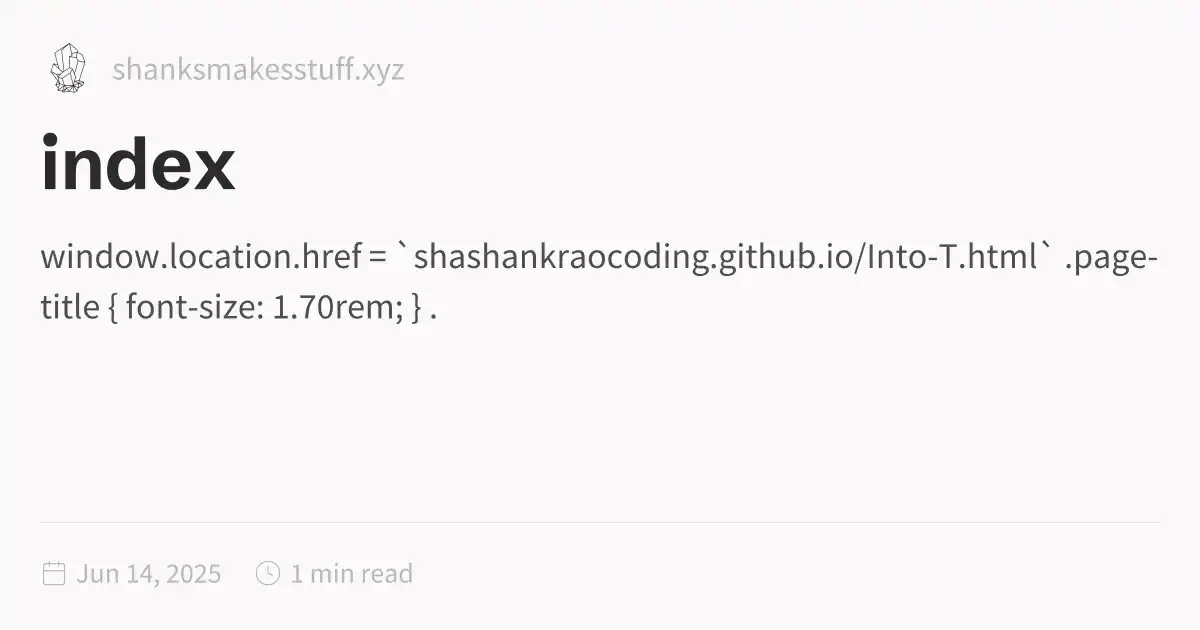
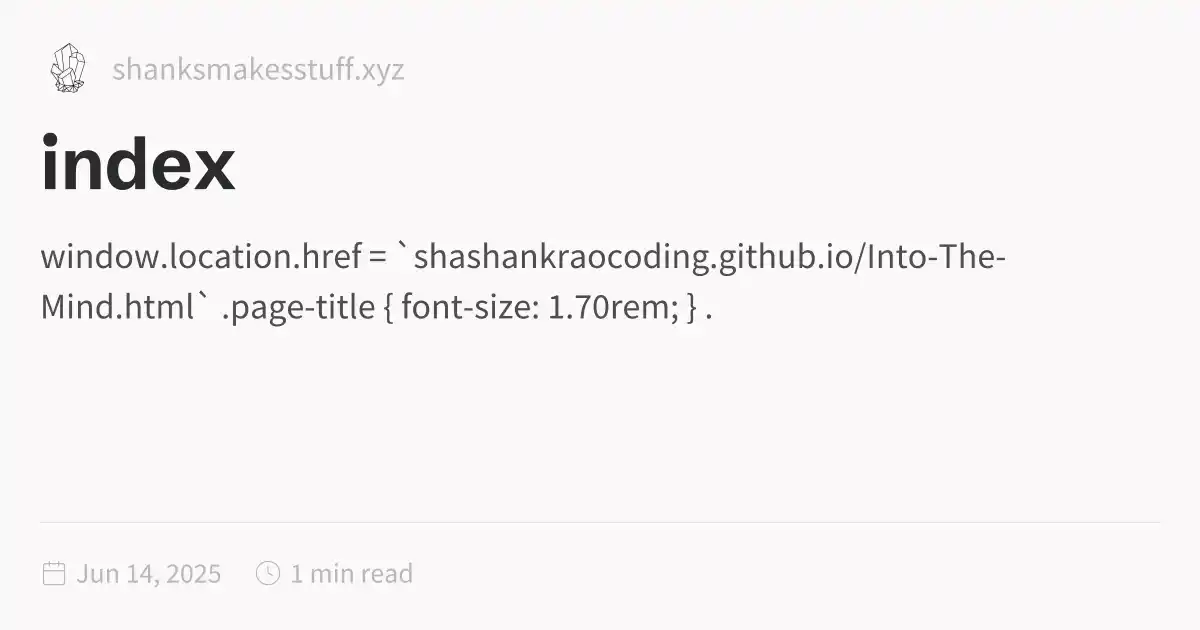
2025-06-14_2204

Changed region(s): [[0.0308, 0.4524, 0.5858, 0.5127], [0.8942, 0.3921, 0.9558, 0.4524], [0.8017, 0.3921, 0.8633, 0.4222]]

diff --git a/index.html b/index.html
@@ -1,5 +1,5 @@
 <!DOCTYPE html>
-<html lang="en"><head><title>index</title><meta charset="utf-8"/><link rel="preconnect" href="https://fonts.googleapis.com"/><link rel="preconnect" href="https://fonts.gstatic.com"/><link rel="stylesheet" href="https://fonts.googleapis.com/css2?family=Schibsted Grotesk:wght@400;700&amp;family=Source Sans Pro:ital,wght@0,400;0,600;1,400;1,600&amp;family=IBM Plex Mono:wght@400;600&amp;display=swap"/><link rel="preconnect" href="https://cdnjs.cloudflare.com" crossorigin="anonymous"/><meta name="viewport" content="width=device-width, initial-scale=1.0"/><meta name="og:site_name" content="ShanksMakesStuff"/><meta property="og:title" content="index"/><meta property="og:type" content="website"/><meta name="twitter:card" content="summary_large_image"/><meta name="twitter:title" content="index"/><meta name="twitter:description" content="window.location.href = `shashankraocoding.github.io/Into-T.html` .page-title { font-size: 1.70rem; } ."/><meta property="og:description" content="window.location.href = `shashankraocoding.github.io/Into-T.html` .page-title { font-size: 1.70rem; } ."/><meta property="og:image:alt" content="window.location.href = `shashankraocoding.github.io/Into-T.html` .page-title { font-size: 1.70rem; } ."/><meta property="twitter:domain" content="shanksmakesstuff.xyz"/><meta property="og:url" content="https://shanksmakesstuff.xyz/index"/><meta property="twitter:url" content="https://shanksmakesstuff.xyz/index"/><link rel="icon" href="./static/icon.png"/><meta name="description" content="window.location.href = `shashankraocoding.github.io/Into-T.html` .page-title { font-size: 1.70rem; } ."/><meta name="generator" content="Quartz"/><link href="./index.css" rel="stylesheet" type="text/css" spa-preserve/><style>.expand-button {
+<html lang="en"><head><title>index</title><meta charset="utf-8"/><link rel="preconnect" href="https://fonts.googleapis.com"/><link rel="preconnect" href="https://fonts.gstatic.com"/><link rel="stylesheet" href="https://fonts.googleapis.com/css2?family=Schibsted Grotesk:wght@400;700&amp;family=Source Sans Pro:ital,wght@0,400;0,600;1,400;1,600&amp;family=IBM Plex Mono:wght@400;600&amp;display=swap"/><link rel="preconnect" href="https://cdnjs.cloudflare.com" crossorigin="anonymous"/><meta name="viewport" content="width=device-width, initial-scale=1.0"/><meta name="og:site_name" content="ShanksMakesStuff"/><meta property="og:title" content="index"/><meta property="og:type" content="website"/><meta name="twitter:card" content="summary_large_image"/><meta name="twitter:title" content="index"/><meta name="twitter:description" content="window.location.href = `shashankraocoding.github.io/Into-The-Mind.html` .page-title { font-size: 1.70rem; } ."/><meta property="og:description" content="window.location.href = `shashankraocoding.github.io/Into-The-Mind.html` .page-title { font-size: 1.70rem; } ."/><meta property="og:image:alt" content="window.location.href = `shashankraocoding.github.io/Into-The-Mind.html` .page-title { font-size: 1.70rem; } ."/><meta property="twitter:domain" content="shanksmakesstuff.xyz"/><meta property="og:url" content="https://shanksmakesstuff.xyz/index"/><meta property="twitter:url" content="https://shanksmakesstuff.xyz/index"/><link rel="icon" href="./static/icon.png"/><meta name="description" content="window.location.href = `shashankraocoding.github.io/Into-The-Mind.html` .page-title { font-size: 1.70rem; } ."/><meta name="generator" content="Quartz"/><link href="./index.css" rel="stylesheet" type="text/css" spa-preserve/><style>.expand-button {
   position: absolute;
   display: flex;
   float: right;
@@ -116,9 +116,9 @@ pre:hover > .expand-button {
   padding: 0 12px;
   font-size: 14px;
 }
[2 lines of base64/hex data omitted]
 	<script> 
-		window.location.href = `https://shashankraocoding.github.io/Into-T.html` 
+		window.location.href = `https://shashankraocoding.github.io/Into-The-Mind.html` 
 	</script> 
  
  
